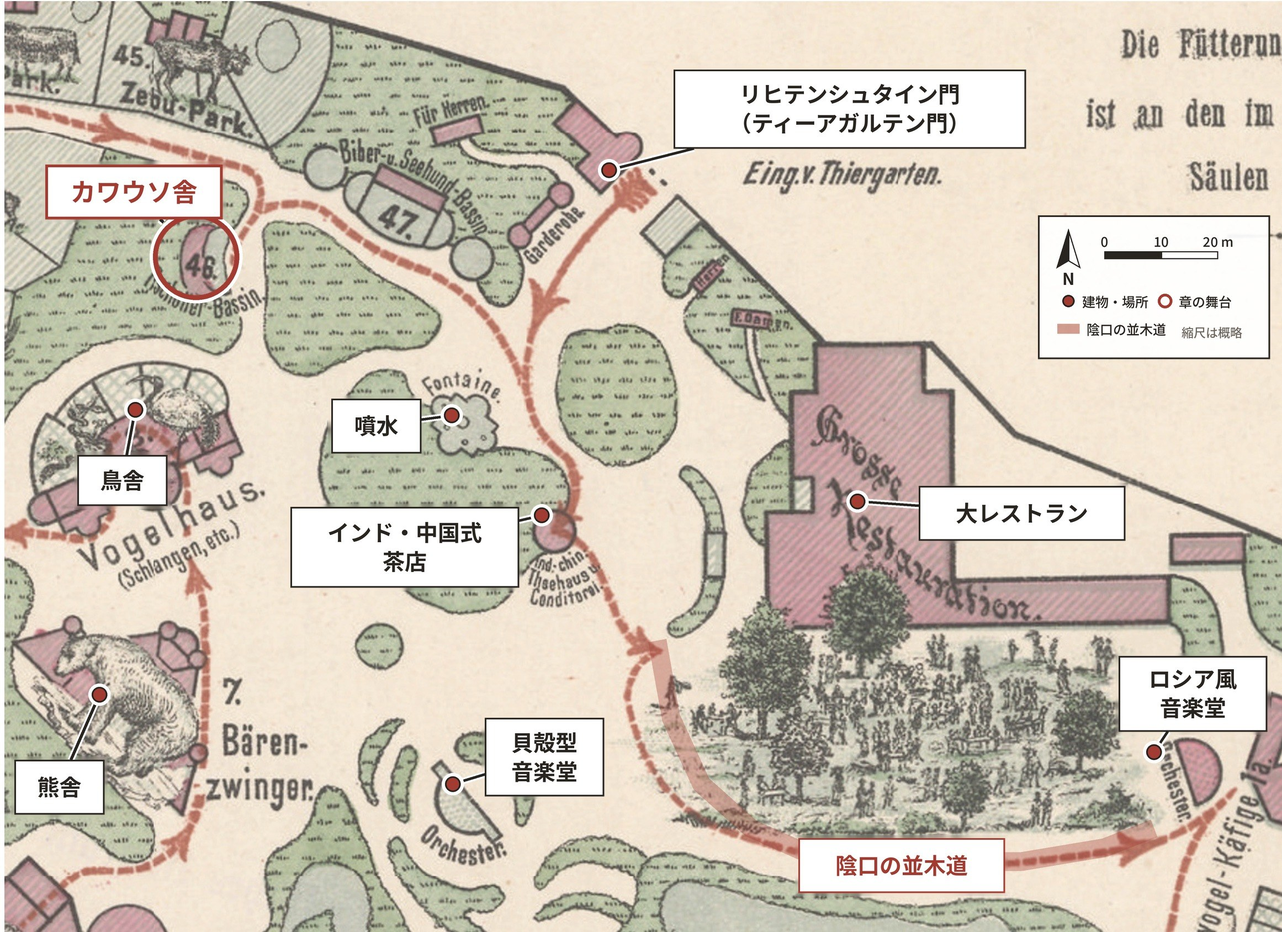
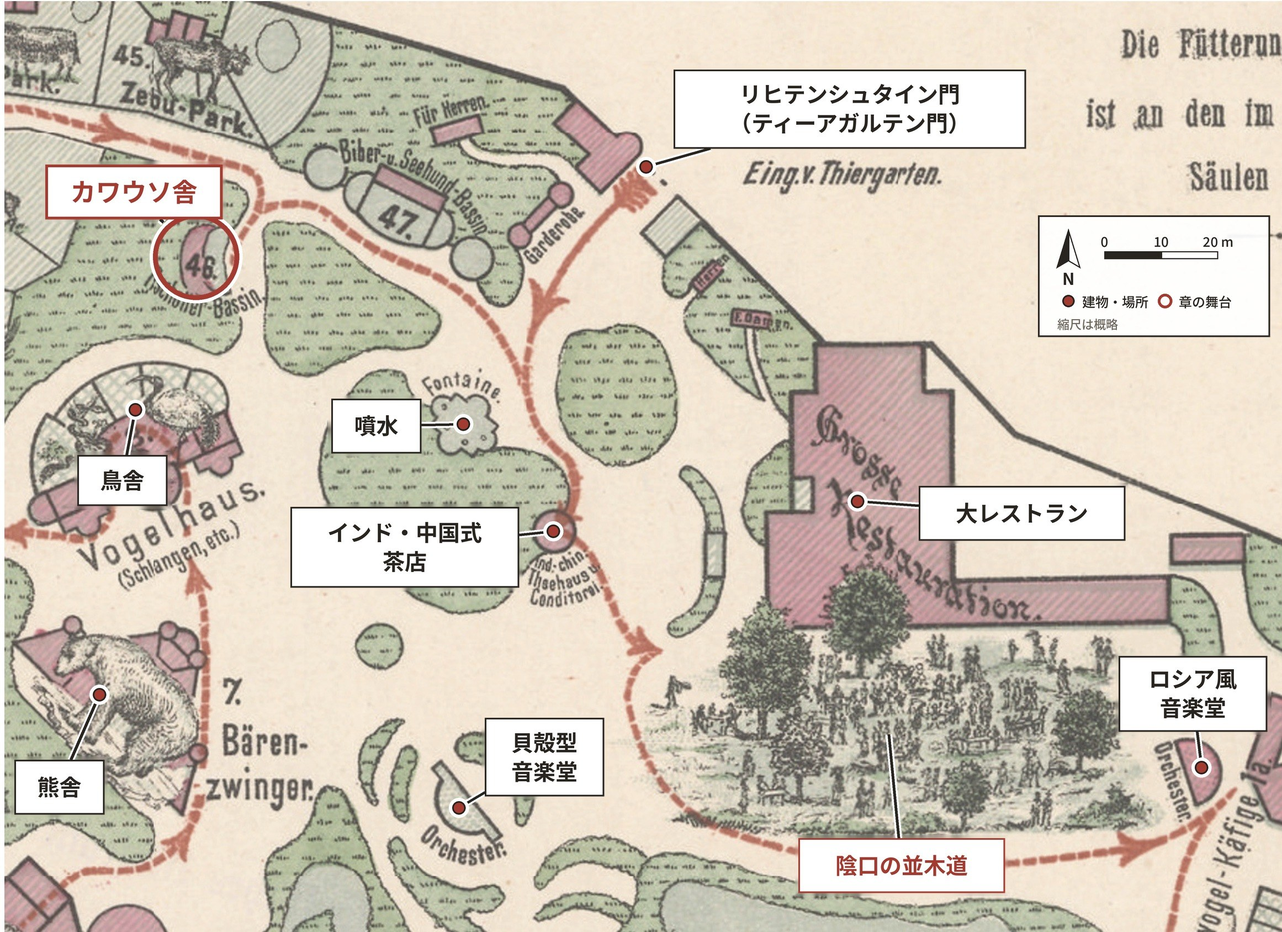
Add files via upload

diff --git a/maps.html b/maps.html
@@ -246,7 +246,7 @@
         </p>
         <p class="quelle">制作：Hildebrand &amp; Schultze。出典：<cite>Practischer Führer durch den Zoologischen Garten von Berlin</cite>, 1893。ベルリン゠シャルロッテンブルク、紙に多色刷り、32センチ×54センチ。Berlin Museum, Sammlung Stiftung Stadtmuseum Berlin, Inv.-Nr. IV 60/665 R.</p>
         <button class="lupe js-lupe" type="button" data-src="maps/04_karte-Berliner-Zoo1898.jpg" data-titel="ベルリン動物園案内図（部分）（1893）">拡大表示</button>
-        <button class="lupe js-lupe" type="button" data-src="maps/web/04_karte-Berliner-Zoo1893_web.jpg" data-titel="ベルリン動物園案内図（部分）（1893）　描き直した版" data-goatcounter-click="map-web-karte-zoo">描き直した版を見る</button>
+        <button class="lupe js-lupe" type="button" data-src="maps/web/04_karte-Berliner-Zoo1893_web.jpg?v=3" data-titel="ベルリン動物園案内図（部分）（1893）　描き直した版" data-goatcounter-click="map-web-karte-zoo">描き直した版を見る</button>
 
         <div class="referenz">
           <p class="ref-titel">参考図　ベルリン動物園案内図（全図、1893年）</p>
@@ -259,7 +259,7 @@
             カバ舎・象のパゴダなど園内各所との位置関係を確認できます。
           </p>
           <button class="lupe js-lupe" type="button" data-src="maps/B15-00-ベルリン動物園案内図.jpg" data-titel="参考図　ベルリン動物園案内図（全図）（1893）">全図を拡大表示</button>
-          <button class="lupe js-lupe" type="button" data-src="maps/web/B15-00_Zoo-Gesamtplan1893_web.jpg" data-titel="参考図　ベルリン動物園案内図（全図）（1893）　描き直した版" data-goatcounter-click="map-web-zoo-gesamt">全図の描き直した版を見る</button>
+          <button class="lupe js-lupe" type="button" data-src="maps/web/B15-00_Zoo-Gesamtplan1893_web.jpg?v=3" data-titel="参考図　ベルリン動物園案内図（全図）（1893）　描き直した版" data-goatcounter-click="map-web-zoo-gesamt">全図の描き直した版を見る</button>
         <p class="quelle">本書173頁・「カワウソ」図1。出典は上記の部分図と共通。</p>
 </div>
       </div>
